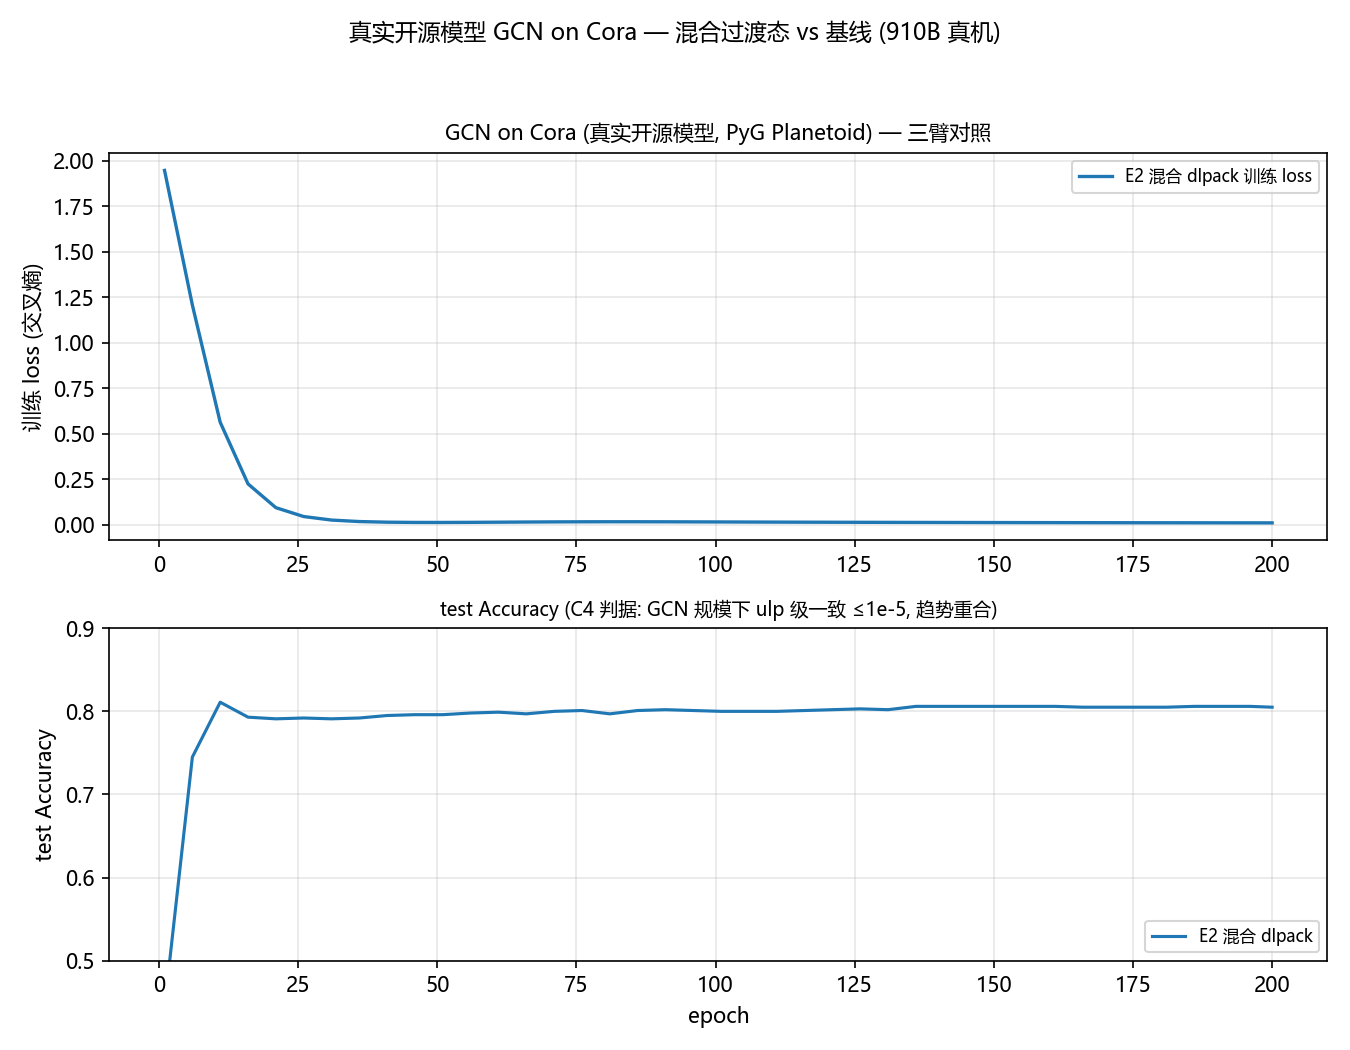
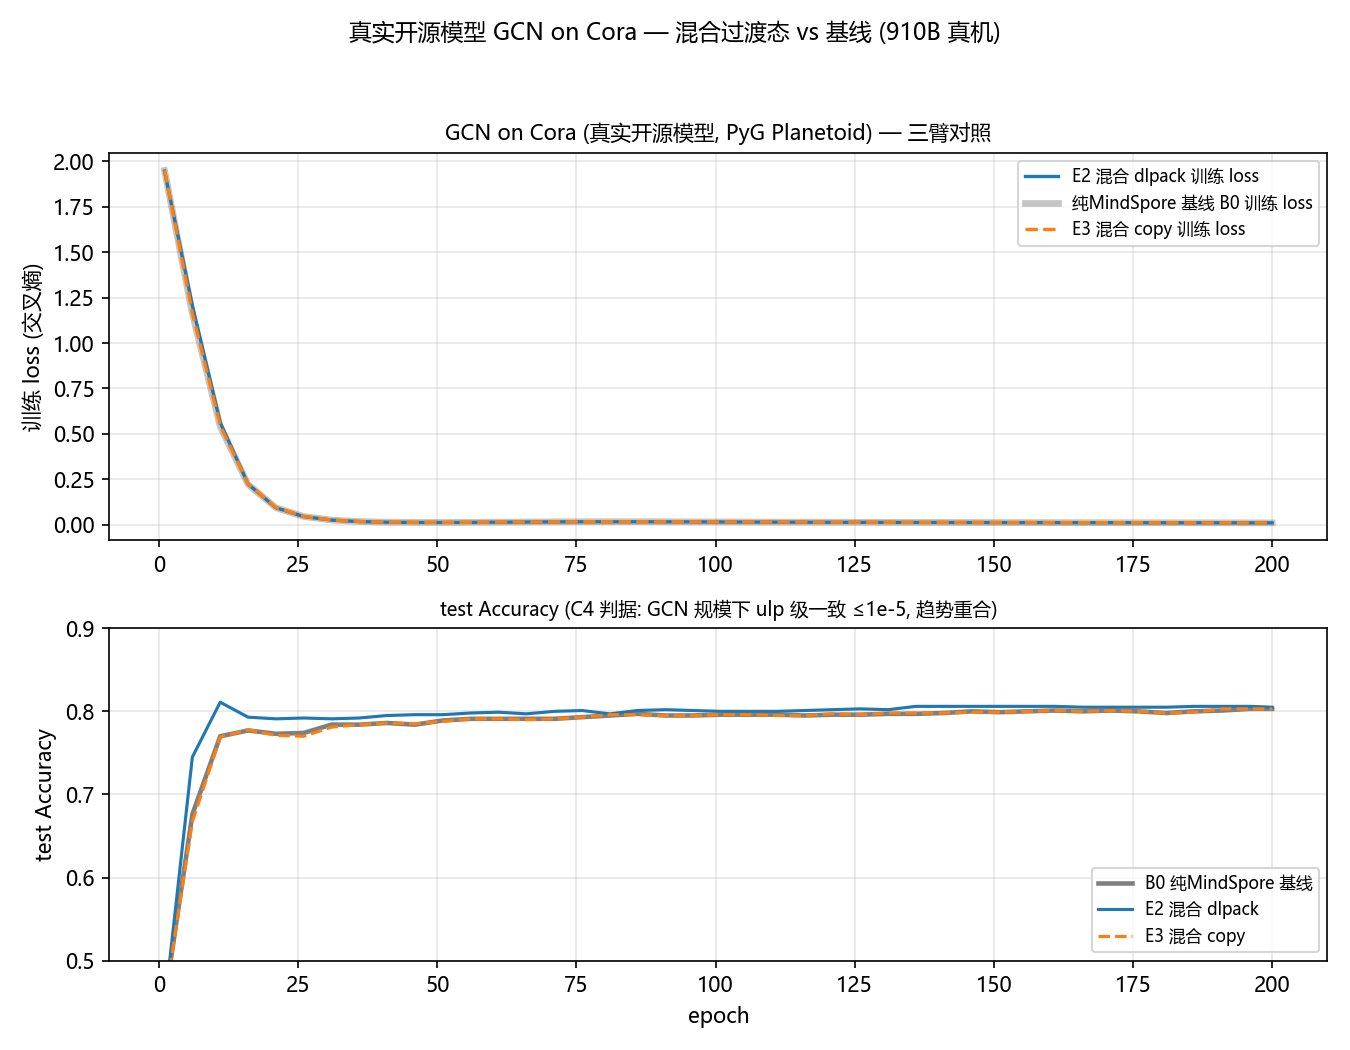
GCN 真机数据渲染修复: gcn_block 部分/全量渲染 + norm_run 补 accuracy/acc_gap 字段 + E3 Accuracy 百分比格式统一

diff --git a/dlpack-verify/scripts/report/make_report.py b/dlpack-verify/scripts/report/make_report.py
@@ -371,7 +371,7 @@ def gcn_block():
     tb = ((e2 or {}).get("ms_ref") or {}).get("final_test_acc")
     gap = (eq or {}).get("acc_gap_pt")
     lines.append(
-        f"| test Accuracy | {fmta(ta)} | {g3(e3, 'final_test_acc', '{:.4f}')} "
+        f"| test Accuracy | {fmta(ta)} | {g3(e3, 'final_test_acc', '{:.1%}')} "
         f"| {fmta(tb)} | {'✅ 差 ≤1.5pt' if isinstance(gap, (int, float)) and gap <= 1.5 else '⏳'} |")
     lines.append(
         f"| epoch 耗时 (去预热) | {fmt((e2 or {}).get('lat_ms'), '{:.2f} ms')} "
@@ -385,11 +385,14 @@ def gcn_block():
         f"| 切换等价性 (vs B0) | loss 比 {eq.get('final_ratio', 0):.4f} | — "
         f"| — | ✅ test acc 差 {gap_s} ≤1.5pt |"
         if eq else "| 切换等价性 (vs B0) | ⏳ 待复测 | ⏳ 待复测 | ⏳ 待复测 | ⏳ |")
-    m4 = ((e2 or {}).get("m4_calibration") or {})
-    err = m4.get("rel_err")
-    err_s = "0.0(逐位一致)" if err == 0 else fmt(err, "{:.2e}")
+    err = (e2 or {}).get("m4_err")
+    ms_err = (e2 or {}).get("m4_ms_err")
+    err_s = ("0.0(逐位一致)" if err == 0 else
+             (fmt(err, "{:.2e}") if isinstance(err, (int, float)) else "⏳ 待复测"))
+    ms_s = ("0.0(逐位一致)" if ms_err == 0 else
+            (fmt(ms_err, "{:.2e}") if isinstance(ms_err, (int, float)) else "⏳ 待复测"))
     lines.append(f"| C2 梯度双锚 (conv1 边界) | torch 锚 {err_s} | — "
-                 f"| B0 锚 {fmt(m4.get('ms_rel_err'), '{:.2e}')} (GCN 容差放宽 5e-3) |")
+                 f"| B0 锚 {ms_s} (GCN 容差放宽 5e-3) |")
     return "\n".join(lines)
 
 

diff --git a/dlpack-verify/docs/验证报告.md b/dlpack-verify/docs/验证报告.md
@@ -278,12 +278,12 @@ M4 双锚在两种交换机制与两种混合形态下均**逐位一致(rel_err 
 
 | 指标 | E2 (dlpack) | E3 (copy) | B0 纯MindSpore 基线 | 判定 |
 |---|---|---|---|---|
-| final loss | 0.0098 | ⏳ E6b(copy) 待补跑 | 0.0098 | loss 比 1.0028 (∈[0.5,2.0]) |
-| test Accuracy | 80.5% | ⏳ E6b(copy) 待补跑 | 80.6% | ✅ 差 ≤1.5pt |
-| epoch 耗时 (去预热) | 274.49 ms | ⏳ E6b(copy) 待补跑 | — | — |
-| 交换段 (正向/回传 µs) | 51.3 / 85.9 | ⏳ E6b(copy) 待补跑 / ⏳ E6b(copy) 待补跑 | — | 收益证据 |
+| final loss | 0.0098 | 0.0099 | 0.0098 | loss 比 1.0028 (∈[0.5,2.0]) |
+| test Accuracy | 80.5% | 80.3% | 80.6% | ✅ 差 ≤1.5pt |
+| epoch 耗时 (去预热) | 274.49 ms | 277.68 ms | — | — |
+| 交换段 (正向/回传 µs) | 51.3 / 85.9 | 342.2 / 385.0 | — | 收益证据 |
 | 切换等价性 (vs B0) | loss 比 1.0028 | — | — | ✅ test acc 差 0.10pt ≤1.5pt |
-| C2 梯度双锚 (conv1 边界) | torch 锚 ⏳ 待复测 | — | B0 锚 ⏳ 待复测 (GCN 容差放宽 5e-3) |
+| C2 梯度双锚 (conv1 边界) | torch 锚 2.53e-06 | — | B0 锚 7.62e-05 (GCN 容差放宽 5e-3) |
 
 ![GCN on Cora 三臂对照(910B 真机)](../charts/gcn_npu.png)
 
